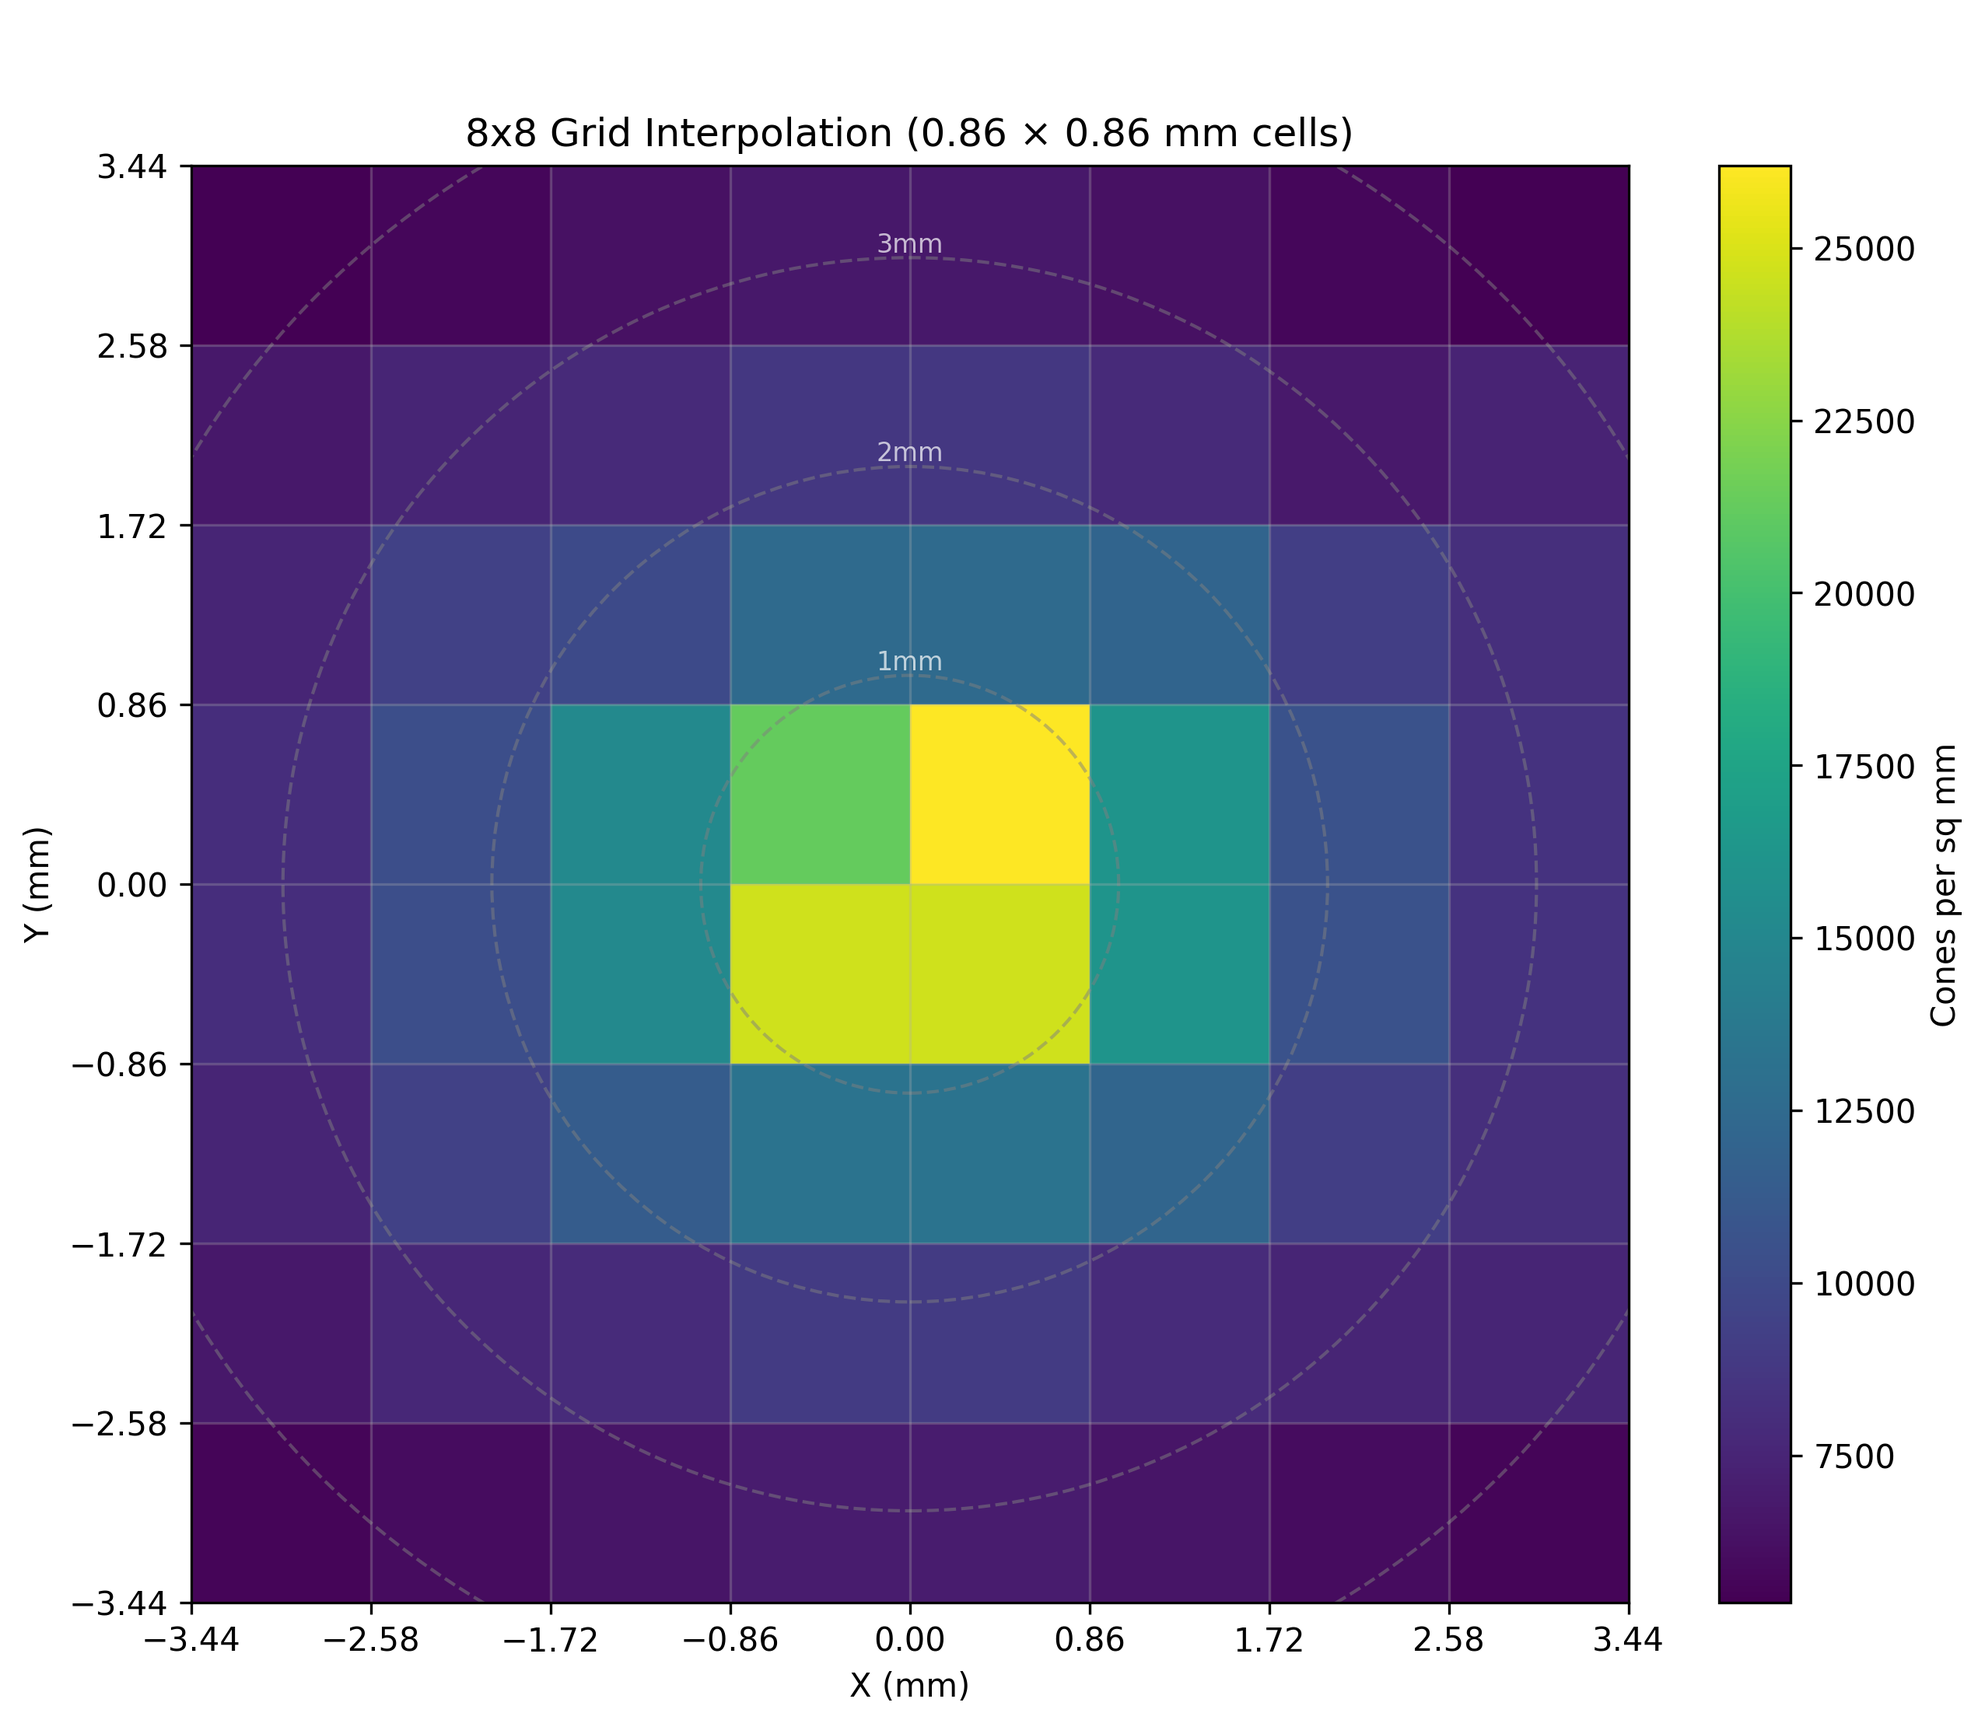
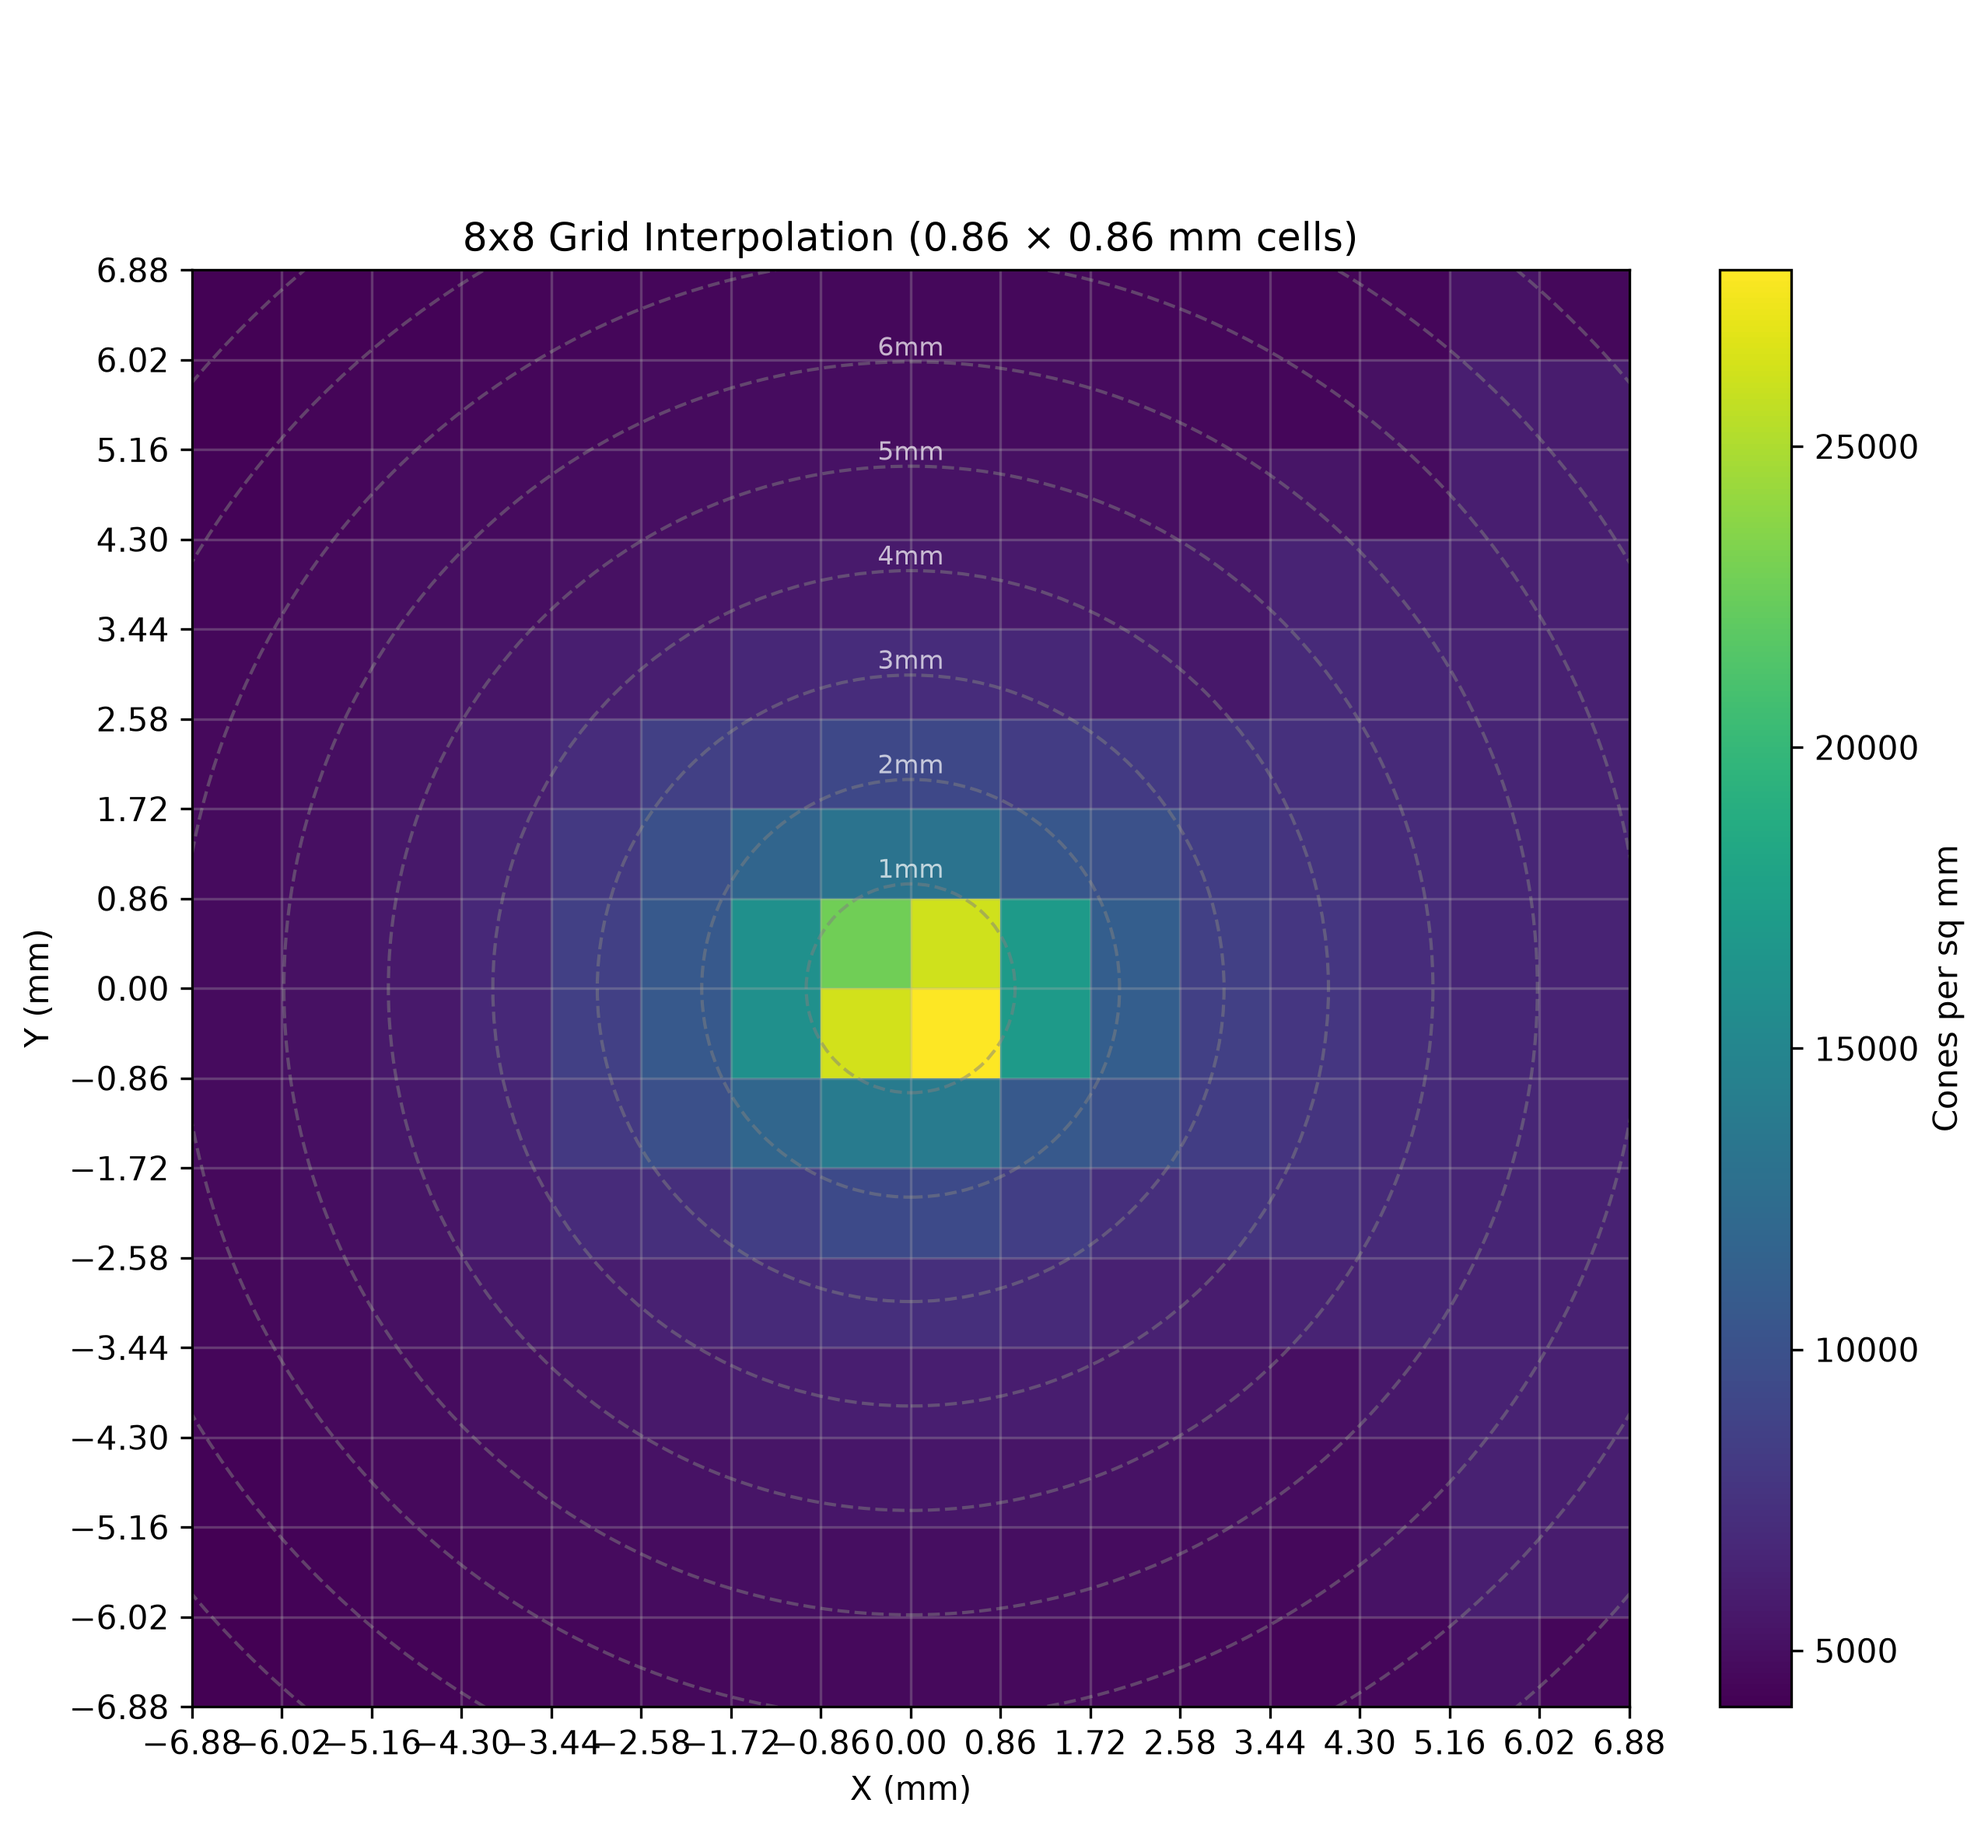
movies

diff --git a/04_progression_video.py b/04_progression_video.py
@@ -8,20 +8,31 @@ import pandas as pd
 from oct_utils.data_structures import PosteriorPoleData
 from oct_utils.progression_video import make_progression_video
 
+# with --all, eyes with fewer time points or a shorter follow-up are skipped
+MIN_TIMEPOINTS_ALL = 3
+MIN_SPAN_YEARS_ALL = 3
 
-def read_maps(scratch_dir: str, alias: str, laterality: str) -> dict[float, pd.DataFrame]:
-    """ Interpolated maps for one eye, keyed by age; repeated scans at the same age are averaged."""
-    maps_per_age = {}
+
+def read_all_maps(scratch_dir: str) -> dict[tuple[str, str], dict[float, pd.DataFrame]]:
+    """ Interpolated maps for every eye, keyed by (alias, laterality) and then by age;
+        repeated scans at the same age are averaged."""
+    maps_per_eye = {}
     for data_group in ["controls", "patients"]:
         oct_df = pd.read_excel(f"{scratch_dir}/interpolated_maps.{data_group}.xlsx")
         for index_value in oct_df.index:
             ppd = PosteriorPoleData()
             ppd.pd_dataframe_read(oct_df, index_value, fussy=False)
-            # compare after reading, because the controls' aliases get reformatted on read
-            if ppd.alias != alias or ppd.laterality != laterality: continue
             if ppd.interpolated_map is None: continue
+            # key on the alias as read, because the controls' aliases get reformatted on read
+            maps_per_age = maps_per_eye.setdefault((ppd.alias, ppd.laterality), {})
             maps_per_age.setdefault(ppd.age_at_test, []).append(ppd.interpolated_map)
-    return {age: pd.concat(maps).groupby(level=0).mean() for age, maps in sorted(maps_per_age.items())}
+    return {eye: {age: pd.concat(maps).groupby(level=0).mean() for age, maps in sorted(maps_per_age.items())}
+            for eye, maps_per_age in maps_per_eye.items()}
+
+
+def read_maps(scratch_dir: str, alias: str, laterality: str) -> dict[float, pd.DataFrame]:
+    """ Interpolated maps for one eye, keyed by age; repeated scans at the same age are averaged."""
+    return read_all_maps(scratch_dir).get((alias, laterality), {})
 
 
 def fill_gaps_in_time(maps: dict[float, pd.DataFrame]) -> dict[float, pd.DataFrame]:
@@ -72,8 +83,12 @@ def fill_edges_in_space(maps: dict[float, pd.DataFrame]) -> dict[float, pd.DataF
 
 def parse_args():
     parser = argparse.ArgumentParser(description="Video of the thickness map progression for one patient's eye.")
-    parser.add_argument("alias", help="patient/control alias, e.g. 'Alex Apple'")
-    parser.add_argument("eye", choices=["OD", "OS"], help="laterality")
+    parser.add_argument("alias", nargs="?", help="patient/control alias, e.g. 'Alex Apple'")
+    parser.add_argument("eye", nargs="?", choices=["OD", "OS"], help="laterality")
+    parser.add_argument("-a", "--all", action="store_true",
+                        help=f"make videos for all aliases and eyes, skipping those with an existing video, "
+                             f"fewer than {MIN_TIMEPOINTS_ALL} time points, "
+                             f"or a time span shorter than {MIN_SPAN_YEARS_ALL} years")
     parser.add_argument("-o", "--outdir", default="/home/ivana/scratch/abca4_oct/progression_video",
                         help="output directory (default: %(default)s)")
     parser.add_argument("-s", "--seconds", type=float, default=20,
@@ -84,6 +99,10 @@ def parse_args():
                         help="seconds to freeze on the last frame at the end of the video, "
                              "included in --seconds (default: %(default)s)")
     args = parser.parse_args()
+    if args.all and (args.alias or args.eye):
+        parser.error("give either alias and eye, or --all, not both")
+    if not args.all and not (args.alias and args.eye):
+        parser.error("alias and eye are required unless --all is given")
     if args.seconds <= 0 or args.interp_points < 2:
         parser.error("seconds must be positive and interp-points at least 2")
     if not 0 <= args.hold < args.seconds:
@@ -91,23 +110,43 @@ def parse_args():
     return args
 
 
-def main():
-    args = parse_args()
-    scratch_dir = "/home/ivana/scratch/abca4_oct/xlsx"
+def video_name(outdir: str, alias: str, eye: str) -> str:
+    return f"{outdir}/{alias.replace(' ', '_')}_{eye}_progression.mp4"
 
-    maps = read_maps(scratch_dir, args.alias, args.eye)
-    if len(maps) < 2:
-        print(f"need at least two time points for a video, found {len(maps)} for '{args.alias}' {args.eye}")
-        exit(1)
+
+def make_eye_video(maps: dict[float, pd.DataFrame], alias: str, eye: str, args):
     # prefer the same cell's own measurements at other ages; only then fall back on the neighbors
     maps = fill_gaps_in_time(maps)
     maps = fill_edges_in_space(maps)
-
-    os.makedirs(args.outdir, exist_ok=True)
-    outname = f"{args.outdir}/{args.alias.replace(' ', '_')}_{args.eye}_progression.mp4"
     make_progression_video(list(maps.keys()), [m.to_numpy(dtype=float) for m in maps.values()],
-                           args.seconds, args.interp_points, outname, hold=args.hold,
-                           label=f"{args.alias} {args.eye}")
+                           args.seconds, args.interp_points, video_name(args.outdir, alias, eye),
+                           hold=args.hold, label=f"{alias} {eye}")
+
+
+def main():
+    args = parse_args()
+    scratch_dir = "/home/ivana/scratch/abca4_oct/xlsx"
+    os.makedirs(args.outdir, exist_ok=True)
+
+    if not args.all:
+        maps = read_maps(scratch_dir, args.alias, args.eye)
+        if len(maps) < 2:
+            print(f"need at least two time points for a video, found {len(maps)} for '{args.alias}' {args.eye}")
+            exit(1)
+        make_eye_video(maps, args.alias, args.eye, args)
+        return
+
+    for (alias, eye), maps in sorted(read_all_maps(scratch_dir).items()):
+        ages = list(maps.keys())
+        # if os.path.exists(video_name(args.outdir, alias, eye)):
+        #     print(f"skipping '{alias}' {eye}: video already exists")
+        if len(ages) < MIN_TIMEPOINTS_ALL:
+            print(f"skipping '{alias}' {eye}: only {len(ages)} time point(s)")
+        elif ages[-1] - ages[0] < MIN_SPAN_YEARS_ALL:
+            print(f"skipping '{alias}' {eye}: time points span only {ages[-1] - ages[0]:.1f} years")
+        else:
+            print(f"making video for '{alias}' {eye}")
+            make_eye_video(maps, alias, eye, args)
 
 
 #######################

diff --git a/oct_utils/plotting.py b/oct_utils/plotting.py
@@ -3,9 +3,18 @@
 import numpy as np
 import pandas as pd
 from matplotlib import pyplot as plt
-from matplotlib.colors import LinearSegmentedColormap, TwoSlopeNorm
+from matplotlib.colors import LinearSegmentedColormap, ListedColormap, TwoSlopeNorm
 
 from oct_utils.data_structures import PosteriorPoleData
+
+
+def draw_missing_checkerboard(ax, shape: tuple[int, int], checks_per_tile: int = 4):
+    """ Fine checkerboard covering the whole map, to be drawn before (i.e. under) the map itself:
+        the colormaps leave missing (NaN) tiles transparent, so the checkerboard shows through only there."""
+    n_rows, n_cols = shape[:2]
+    yy, xx = np.indices((n_rows * checks_per_tile, n_cols * checks_per_tile))
+    ax.imshow((yy + xx) % 2, origin="lower", cmap=ListedColormap(["white", "lightgray"]), interpolation="none",
+              extent=(-0.5, n_cols - 0.5, -0.5, n_rows - 0.5))
 
 
 def _rate_cmap() -> LinearSegmentedColormap:
@@ -14,8 +23,9 @@ def _rate_cmap() -> LinearSegmentedColormap:
     viridis = plt.get_cmap("viridis")
     stops = [(0.0, viridis(1.0)), (0.25, viridis(0.75)), (0.5, "white"), (0.75, viridis(0.3)), (1.0, viridis(0.0))]
     cmap = LinearSegmentedColormap.from_list("viridis_r_white0", stops)
-    # missing tiles would otherwise also show as white, i.e. as "no change"
-    cmap.set_bad("lightgray")
+    # missing tiles are transparent, so the checkerboard underneath shows through
+    # (otherwise they would show as white, i.e. as "no change")
+    cmap.set_bad((0, 0, 0, 0))
     return cmap
 
 
@@ -37,6 +47,7 @@ def plot_thickness_map(ppd: PosteriorPoleData, scratch_dir: str, thck_map: str="
     plt.figure()
     plt.title(f"{ppd.alias}, {ppd.age_at_test} {ppd.laterality} ({thck_map})")
     df = ppd.pp_map if thck_map == "original" else ppd.interpolated_map
+    draw_missing_checkerboard(plt.gca(), np.shape(df))
     plt.imshow(df, origin="lower", cmap='YlOrRd_r', interpolation='none', vmin=0.12, vmax=0.38)
     plt.xticks([])
     plt.yticks([])
@@ -94,6 +105,7 @@ def plot_rate_of_change_map(alias: str, laterality: str, age_from: float, age_to
     plt.title(f"{alias}, {laterality}, {age_from} → {age_to} (rate of change)")
     plt.xticks(np.arange(8), np.arange(1, 9))
     plt.yticks(np.arange(8), np.arange(1, 9))
+    draw_missing_checkerboard(plt.gca(), np.shape(rate_map))
     plt.imshow(rate_map, origin="lower", cmap=_rate_cmap(), interpolation='none', norm=_rate_norm())
     plt.xlabel("Temporal-Nasal")
     plt.ylabel("Inferior-Superior")
@@ -126,6 +138,7 @@ def plot_progression_svg(alias: str, laterality: str, maps: dict[float, pd.DataF
     map_axes = []
     for i, (age, thck_map) in enumerate(maps.items()):
         ax = fig.add_subplot(gs[0, 2 * i: 2 * i + 2])
+        draw_missing_checkerboard(ax, np.shape(thck_map))
         im_map = ax.imshow(thck_map, origin="lower", cmap='RdYlBu', interpolation='none', vmin=0.12, vmax=0.38)
         setup_axes(ax, f"{age}", left=(i == 0))
         map_axes.append(ax)
@@ -135,6 +148,7 @@ def plot_progression_svg(alias: str, laterality: str, maps: dict[float, pd.DataF
         rate_axes = []
         for i, (age_from, age_to, rate_map) in enumerate(rates):
             ax = fig.add_subplot(gs[1, 2 * i + 1: 2 * i + 3])
+            draw_missing_checkerboard(ax, np.shape(rate_map))
             im_rate = ax.imshow(rate_map, origin="lower", cmap=_rate_cmap(), interpolation='none',
                                 norm=_rate_norm())
             setup_axes(ax, f"{age_from} → {age_to}", left=(i == 0))

diff --git a/oct_utils/progression_video.py b/oct_utils/progression_video.py
@@ -2,6 +2,8 @@ import numpy as np
 from matplotlib import pyplot as plt
 from matplotlib.animation import FFMpegWriter
 
+from oct_utils.plotting import draw_missing_checkerboard
+
 
 def make_progression_video(ages: list[float], maps: list[np.ndarray], seconds: float, n_points: int, outname: str,
                            hold: float = 0, label: str = "Caucasian Reference"):
@@ -20,6 +22,7 @@ def make_progression_video(ages: list[float], maps: list[np.ndarray], seconds: f
 
     # same look as plot_thickness_map
     fig, ax = plt.subplots()
+    draw_missing_checkerboard(ax, stack.shape[1:])
     img = ax.imshow(stack[0], origin="lower", cmap='YlOrRd_r', interpolation='none', vmin=0.12, vmax=0.38)
     ax.set_xticks([])
     ax.set_yticks([])

diff --git a/06_pr_radial_to_8x8_map.py b/06_pr_radial_to_8x8_map.py
@@ -257,7 +257,7 @@ def interpolate(shet_name: str, cell_size_mm, cells_per_side, plot=False):
 def main():
     plot = True
     cell_size_mm   = 0.86
-    cells_per_side = 8
+    cells_per_side = 16
 
     for sheet_name in ["Rods per sq mm", "Cones per sq mm"]:
         interpolate(sheet_name, cell_size_mm=cell_size_mm, cells_per_side=cells_per_side, plot=plot)
